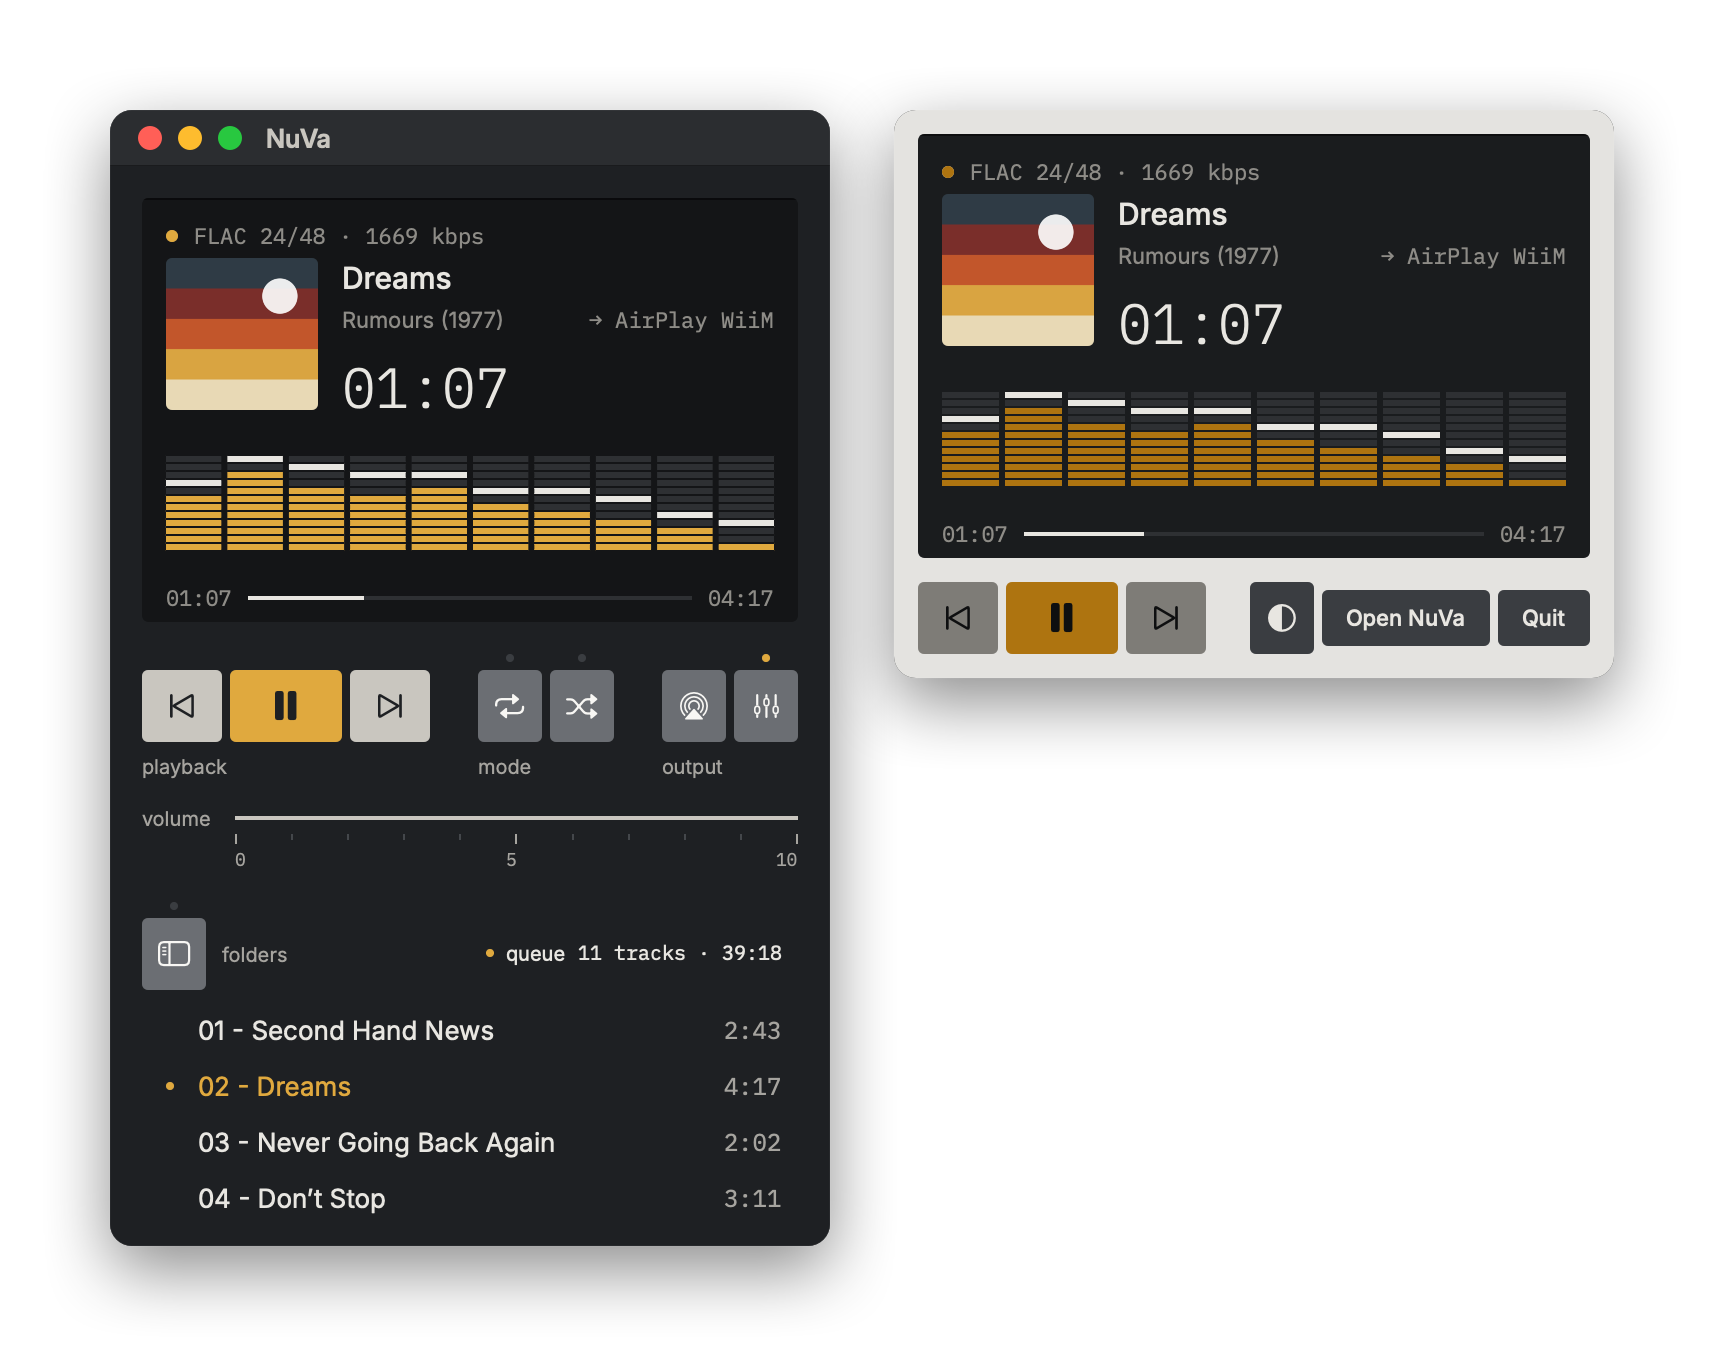
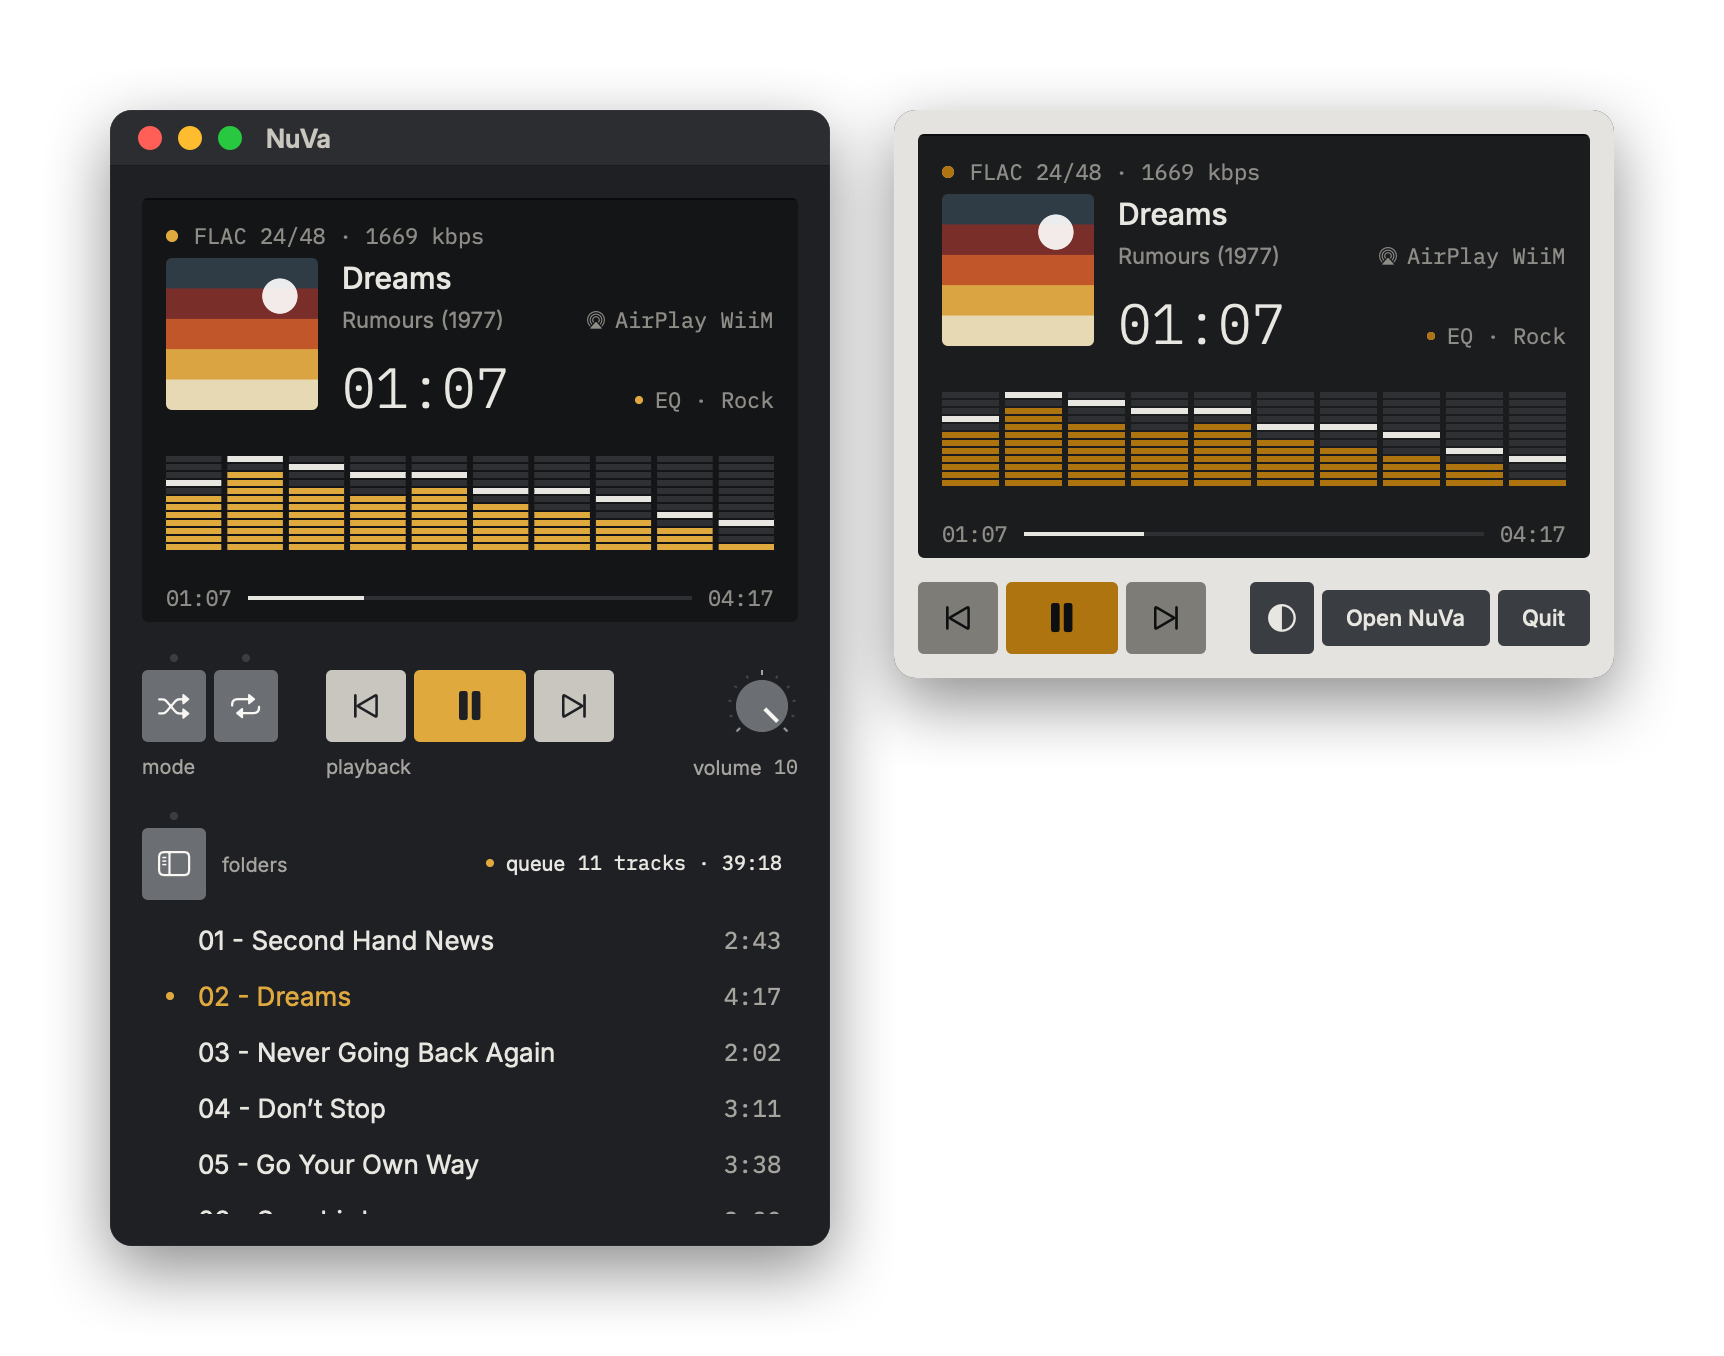
README: volume knob, output and equalizer on the display, new screenshots

diff --git a/Sources/UI/DebugSnapshot.swift b/Sources/UI/DebugSnapshot.swift
@@ -163,6 +163,10 @@ enum DebugSnapshot {
         let player = sampleModel().player
         model.player.debugSet(
             queue: player.queue.map(\.entry), current: 1, time: 67, duration: 257, format: "FLAC 24/48 · 1669 kbps")
+        // The same output and equalizer as the queue's snapshot, for the display.
+        model.output.debugSet("→ AirPlay WiiM")
+        model.player.equalizer.apply(Equalizer.presets.first { $0.name == "Rock" } ?? Equalizer.presets[0])
+        model.player.equalizer.enabled = true
         return model
     }
 }

diff --git a/README.md b/README.md
@@ -42,7 +42,7 @@ FLAC, ALAC, WAV and AIFF play through AVFoundation, the same engine as QuickTime
 <td width="33%" valign="top">
 
 **📡 AirPlay 2 built in**<br>
-Send the music to a WiiM, a HomePod, an Apple TV or any AirPlay speaker from the output key. The display shows where it's going.
+Send the music to a WiiM, a HomePod, an Apple TV or any AirPlay speaker: click where the display says the sound is going.
 
 </td>
 </tr>
@@ -52,7 +52,7 @@ Send the music to a WiiM, a HomePod, an Apple TV or any AirPlay speaker from the
 
 <p align="center"><img src="docs/screenshots/themes.png" width="760" alt="NuVa in the dark Lead theme and the light Aluminium theme"></p>
 
-NuVa borrows from Dieter Rams and classic Braun hi-fi: one flat panel, keys that say what they do by their colour, and small amber lights for what's on. An always-dark display shows the format, the bit depth and where the sound is going, with a spectrum meter of amber segments that dances with the music, one column per equalizer band. It follows your Mac's appearance, in dark **Lead** or light **Aluminium**.
+NuVa borrows from Dieter Rams and classic Braun hi-fi: one flat panel, keys that say what they do by their colour, small amber lights for what's on, and a volume knob. Shuffle and repeat on the left, play in the middle, volume on the right. An always-dark display shows the format, the bit depth, where the sound is going and the equalizer preset (click either to change it), with a spectrum meter of amber segments that dances with the music, one column per equalizer band. It follows your Mac's appearance, in dark **Lead** or light **Aluminium**.
 
 ## Skins and fonts
 
@@ -91,12 +91,12 @@ Sign in to a **Jellyfin** server with your own account and NuVa browses it by th
 <td width="50%" valign="top" align="center">
 <img src="docs/screenshots/compact.png" alt="Compact mode"><br>
 <b>Compact mode (⌘3)</b><br>
-Just the display, the keys and the volume, for when the music is playing in the background.
+Just the display and the keys, volume knob included, for when the music is playing in the background.
 </td>
 <td width="50%" valign="top" align="center">
 <img src="docs/screenshots/equalizer.png" alt="10-band equalizer"><br>
 <b>10-band equalizer</b><br>
-Presets for bass, treble, vocals, loudness and late nights, or set each band by hand.
+Presets for bass, treble, vocals, loudness and late nights, or set each band by hand. Click "EQ" on the display or press ⌥⌘E.
 </td>
 </tr>
 <tr>
@@ -118,7 +118,7 @@ On first launch NuVa tells you what to do: add a folder, or sign in to Jellyfin.
 - Plays FLAC, ALAC, MP3, AAC/M4A, WAV and AIFF.
 - Folders on your Mac, on an external disk or on a mounted network share (SMB), and audio CDs.
 - Queue: play a folder, add more, drag to reorder, delete to remove.
-- Repeat (all or one), shuffle, seek, volume with a scroll of the mouse.
+- Repeat (all or one), shuffle, seek, and a volume knob you can drag, scroll or turn with ⌘↑ ⌘↓.
 - A 10-band equalizer with presets, and a spectrum meter on the display that follows what you hear, also over AirPlay (**View › Show Spectrum**, ⌥⌘V).
 - Optional album artwork: the image in the folder, or found online from the folder names. Never from tags.
 - Media keys, Control Center, the lock screen and AirPods controls.
@@ -152,6 +152,7 @@ xattr -dr com.apple.quarantine /Applications/NuVa.app
 | Space | Play / pause |
 | ⌘→ · ⌘← | Next · previous |
 | ⌘↑ · ⌘↓ | Volume up · down |
+| ⌥⌘E | Equalizer |
 | ⌘B | Swap the queue and the folders |
 | ⌘1 · ⌘2 · ⌘3 | Queue · folders · compact |
 | ⌥⌘1 · ⌥⌘2 … | Skin (also in View ▸ Skin) |
@@ -196,14 +197,15 @@ Toca FLAC pelo motor de áudio da própria Apple, envia o som para as tuas colun
 
 - **As tuas pastas, intocadas.** Sem importar, sem tags. Ordem natural: a faixa 2 vem antes da 10.
 - **Soa como deve.** FLAC, ALAC, WAV e AIFF pelo AVFoundation, o mesmo motor do QuickTime.
-- **AirPlay 2.** WiiM, HomePod, Apple TV ou qualquer coluna AirPlay.
+- **AirPlay 2.** WiiM, HomePod, Apple TV ou qualquer coluna AirPlay: carrega na saída que aparece no visor.
 - **Jellyfin sem confusão.** Navega pelas pastas reais do servidor e toca os ficheiros originais.
 - **Uma janela pequena.** As pastas aparecem no lugar da fila (⌘B troca as duas) e há um modo compacto. A janela estica na vertical para veres o álbum inteiro, e na horizontal para nomes compridos.
 - **Skins:** Nuno (claro ou escuro, como o sistema), Graphite Orange e Graphite Green (sempre escuras), em Visualização › Skin. Fonte Inter + IBM Plex Mono ou SF Pro + SF Mono, em Visualização › Fonte.
 - **Capas, se quiseres:** Visualização › Mostrar capas (⌥⌘A). Usa a imagem da pasta (`cover`, `folder`, `front`, `album` ou `capa`); se não houver, procura no MusicBrainz pelo nome das pastas. Nunca das tags. Capa errada ou em falta: carrega na capa e corrige o artista ou o álbum, ou escolhe uma imagem. Desligado por defeito.
 - **CDs áudio, como um leitor de CDs.** Mete um disco no leitor e a NuVa toca-o logo. Os nomes do álbum e das faixas vêm do MusicBrainz, pelo índice do disco (um CD não traz nomes). Ejetar com ⌘E. Para abrir a NuVa sempre que entra um CD: Definições do Sistema › CDs e DVDs › Ao inserir um CD de música › Abrir outra aplicação… › NuVa.
 - **Avisa quando há versão nova** (verifica no GitHub uma vez por dia, sem descarregar nada). [Termos e privacidade](TERMS.md) em NuVa › Termos e privacidade.
-- **Equalizador de 10 bandas** e **espectro no visor**: colunas de segmentos âmbar, uma por banda, que seguem o que estás a ouvir, também em AirPlay (Visualização › Mostrar espectro, ⌥⌘V).
+- **Teclas como num deck:** aleatório e repetir à esquerda, tocar ao centro, botão de volume à direita.
+- **Equalizador de 10 bandas** (carrega em "EQ" no visor ou ⌥⌘E) e **espectro no visor**: colunas de segmentos âmbar, uma por banda, que seguem o que estás a ouvir, também em AirPlay (Visualização › Mostrar espectro, ⌥⌘V).
 - Media keys, Centro de Controlo e mini player na barra de menus.
 - Em português e inglês, conforme a língua do sistema. macOS 14 ou posterior, Apple silicon e Intel.
 
@@ -216,4 +218,4 @@ Toca FLAC pelo motor de áudio da própria Apple, envia o som para as tuas colun
 
 Só é preciso uma vez.
 
-Atalhos: Espaço tocar/pausa · ⌘→ ⌘← seguinte/anterior · ⌘↑ ⌘↓ volume · ⌘B fila ou pastas · ⌘1 ⌘2 ⌘3 fila, pastas, compacto · ⌥⌘1 ⌥⌘2 … skin · ⌥⌘A capas · ⌥⌘V espectro · ⌘L faixa atual · ⌘O adicionar pasta · ⇧⌘O adicionar Jellyfin.
+Atalhos: Espaço tocar/pausa · ⌘→ ⌘← seguinte/anterior · ⌘↑ ⌘↓ volume · ⌥⌘E equalizador · ⌘B fila ou pastas · ⌘1 ⌘2 ⌘3 fila, pastas, compacto · ⌥⌘1 ⌥⌘2 … skin · ⌥⌘A capas · ⌥⌘V espectro · ⌘L faixa atual · ⌘O adicionar pasta · ⇧⌘O adicionar Jellyfin.
